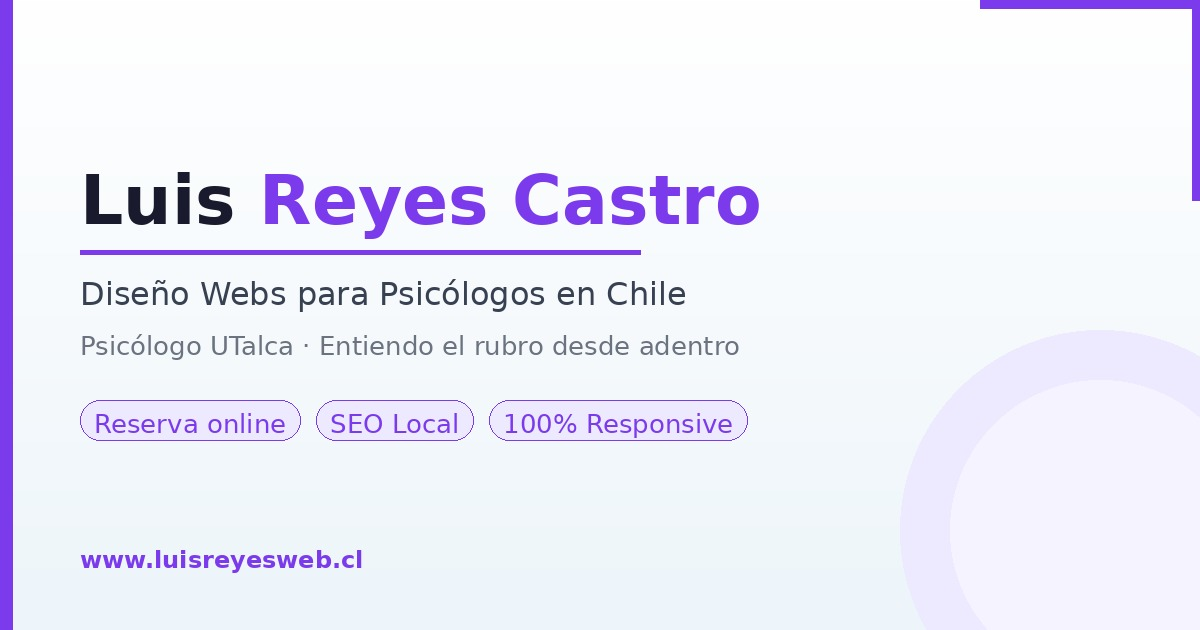
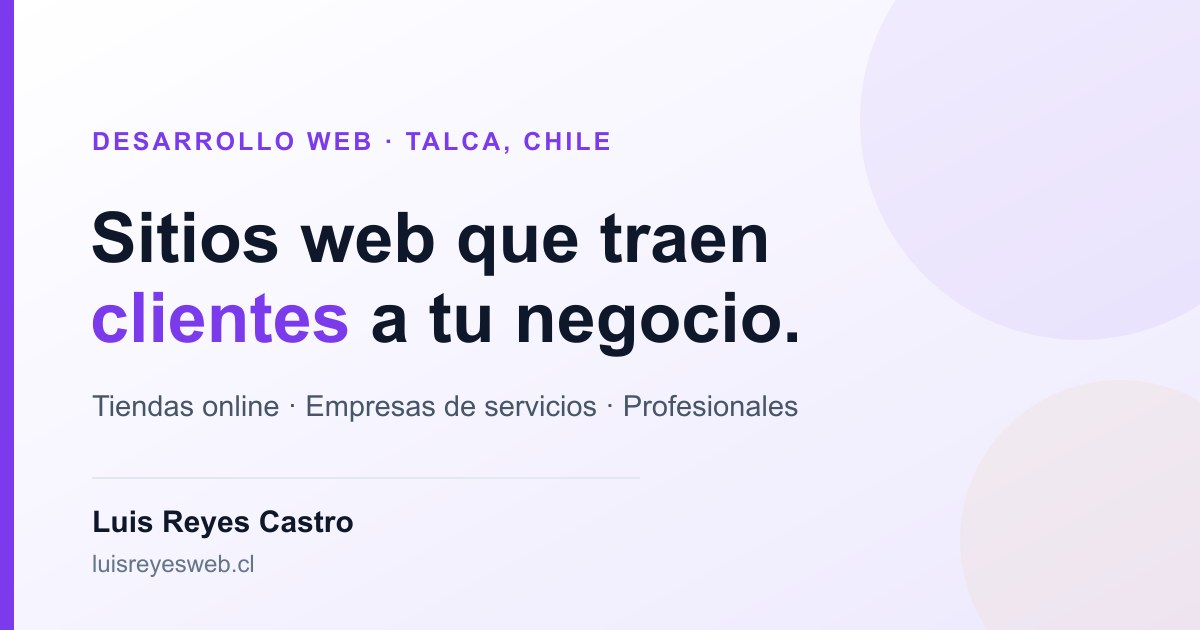
SEO+contenido: og-image nueva y 2 articulos de desarrollo web
- og-image.jpg regenerada con el mensaje de desarrollo web (ya no psicologos).

- Articulos: 'Como aparecer en Google con tu negocio' y 'Tienda online o Instagram'. Sitemap a 22 rutas.

diff --git a/src/blogPosts.js b/src/blogPosts.js
@@ -20,6 +20,128 @@
 
 export const blogPosts = [
   {
+    slug: 'como-aparecer-en-google-con-tu-negocio',
+    title: 'Cómo aparecer en Google con tu negocio (guía simple)',
+    description:
+      'Guía práctica para que tu negocio aparezca en Google: ficha de Google Business, página web con SEO local, reseñas y contenido. Pasos claros, sin tecnicismos.',
+    category: 'SEO',
+    datePublished: '2026-06-27',
+    dateModified: '2026-06-27',
+    readingMinutes: 7,
+    excerpt:
+      'Aparecer en Google no es magia ni suerte: es la suma de tu ficha de Google, una web bien hecha y reseñas reales. Te explico cada pieza en orden.',
+    blocks: [
+      {
+        t: 'p',
+        text: 'Casi todos los días alguien busca en Google exactamente lo que tú ofreces. La pregunta es: ¿te encuentran a ti o a tu competencia? Aparecer en Google **no es suerte**: es la suma de varias piezas que puedes ir armando. Te las explico en orden de impacto.',
+      },
+      { t: 'h2', text: '1. Tu ficha de Google Business (lo más rápido)' },
+      {
+        t: 'p',
+        text: 'Es gratis y es lo que te mete en el mapa y en el bloque de resultados locales (esos 3 negocios que salen arriba con estrellas). Si tienes un negocio local, **esto es lo primero**.',
+      },
+      {
+        t: 'ul',
+        items: [
+          'Créala en google.com/business y verifícala.',
+          'Elige bien la **categoría** (es lo que más influye en para qué búsquedas apareces).',
+          'Completa horario, zona de servicio, teléfono y sube fotos reales.',
+          'Enlaza tu página web desde la ficha.',
+        ],
+      },
+      { t: 'h2', text: '2. Una página web que Google entienda' },
+      {
+        t: 'p',
+        text: 'La ficha te da visibilidad, pero la web es la que te da seriedad y te permite posicionarte por más búsquedas. Para que Google la muestre necesita:',
+      },
+      {
+        t: 'ul',
+        items: [
+          '**Velocidad:** un sitio lento pierde posiciones y visitas.',
+          '**Títulos y textos claros** que mencionen lo que haces y tu ciudad.',
+          '**Estructura técnica** correcta: títulos, descripciones y un sitemap.',
+          '**Que se vea bien en el celular**, donde está la mayoría de tus clientes.',
+        ],
+      },
+      {
+        t: 'quote',
+        text: 'La ficha y la web se potencian: juntas, le dicen a Google que eres un negocio real, activo y relevante para tu zona.',
+      },
+      { t: 'h2', text: '3. Reseñas reales' },
+      {
+        t: 'p',
+        text: 'Las reseñas en tu ficha de Google son de lo que más mueve el ranking local, y además convencen a quien duda. Pídelas a tus clientes contentos: un mensaje simple con el enlace directo a dejar la reseña funciona mejor que esperar a que lo hagan solos.',
+      },
+      { t: 'h2', text: '4. Contenido que responde lo que la gente busca' },
+      {
+        t: 'p',
+        text: 'Cada artículo o página que responde una duda real ("cuánto cuesta", "cuál me conviene", "cómo funciona") es una puerta de entrada nueva desde Google. No necesitas escribir mucho: necesitas responder bien lo que tu cliente se pregunta antes de comprarte.',
+      },
+      { t: 'h2', text: 'Lo que tienes que recordar' },
+      {
+        t: 'p',
+        text: 'Aparecer en Google es un proceso, no un botón. Pero el orden es claro: **ficha + web bien hecha + reseñas + contenido**. Si quieres que tu negocio dé ese paso, conversémoslo: **agenda una reunión sin costo** y vemos por dónde partir.',
+      },
+    ],
+  },
+  {
+    slug: 'tienda-online-o-instagram-negocio',
+    title: '¿Tienda online o vender solo por Instagram? Qué te conviene',
+    description:
+      'Instagram o tienda online: ventajas, límites y cuándo conviene cada uno para vender productos en Chile. Cómo decidir según tu negocio sin perder ventas.',
+    category: 'Negocios',
+    datePublished: '2026-06-27',
+    dateModified: '2026-06-27',
+    readingMinutes: 6,
+    excerpt:
+      'Instagram es genial para mostrarte, pero vender ahí tiene límites: sin buscador, sin catálogo ordenado y sin aparecer en Google. Te ayudo a decidir.',
+    blocks: [
+      {
+        t: 'p',
+        text: 'Muchos negocios venden solo por Instagram y les funciona… hasta cierto punto. Llega un momento en que responder precios por DM, perder mensajes y no aparecer en Google empieza a costar ventas. ¿Conviene dar el salto a una tienda online? Veámoslo sin exagerar para ningún lado.',
+      },
+      { t: 'h2', text: 'Lo que Instagram hace bien' },
+      {
+        t: 'ul',
+        items: [
+          'Te da **alcance** y gente nueva que te descubre.',
+          'Muestra tu día a día y crea cercanía.',
+          'Es rápido y gratis para partir.',
+        ],
+      },
+      { t: 'h2', text: 'Dónde Instagram te empieza a frenar' },
+      {
+        t: 'ul',
+        items: [
+          '**No tiene buscador real:** quien quiere "el producto azul talla M" tiene que revisar fotos una por una.',
+          '**No aparece en Google:** quien busca tu producto en Google no te encuentra.',
+          '**Todo pasa por DM:** precios, stock y dudas se acumulan y se pierden mensajes (y ventas).',
+          '**No es tuyo:** si te suspenden la cuenta, pierdes tu catálogo y tus contactos.',
+        ],
+      },
+      { t: 'h2', text: 'Qué te da una tienda o catálogo online' },
+      {
+        t: 'ul',
+        items: [
+          'Productos **ordenados por categoría** con precios visibles.',
+          '**Búsqueda** para que encuentren rápido lo que quieren.',
+          'Aparecer en **Google** cuando buscan lo que vendes.',
+          'Carrito o **consulta directa por WhatsApp**, según prefieras.',
+          'Un **panel propio** para cambiar precios y stock cuando quieras.',
+        ],
+      },
+      { t: 'h2', text: 'Entonces, ¿cuál elijo?' },
+      {
+        t: 'p',
+        text: 'La respuesta no es "uno u otro": es **usar Instagram para mostrarte y una tienda para vender ordenado**. Instagram atrae, la tienda convierte y aparece en Google. Si ya pasas el día respondiendo precios por DM o tienes muchos productos, es señal clara de que te conviene una tienda.',
+      },
+      {
+        t: 'p',
+        text: 'Si quieres ver qué tipo de tienda le calza a tu negocio (y cuánto costaría), **escríbeme y lo vemos juntos**, sin compromiso.',
+      },
+    ],
+  },
+  {
     slug: 'cuanto-cuesta-una-pagina-web-en-chile',
     title: '¿Cuánto cuesta una página web en Chile en 2026?',
     description:
